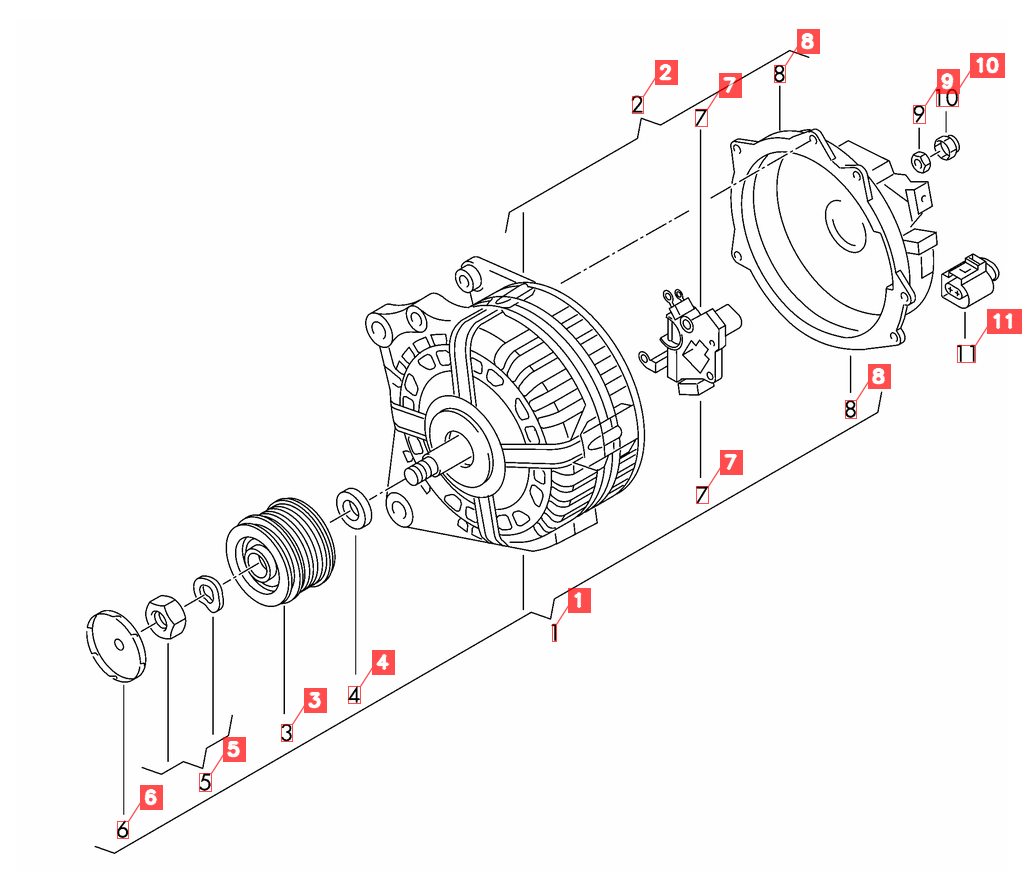
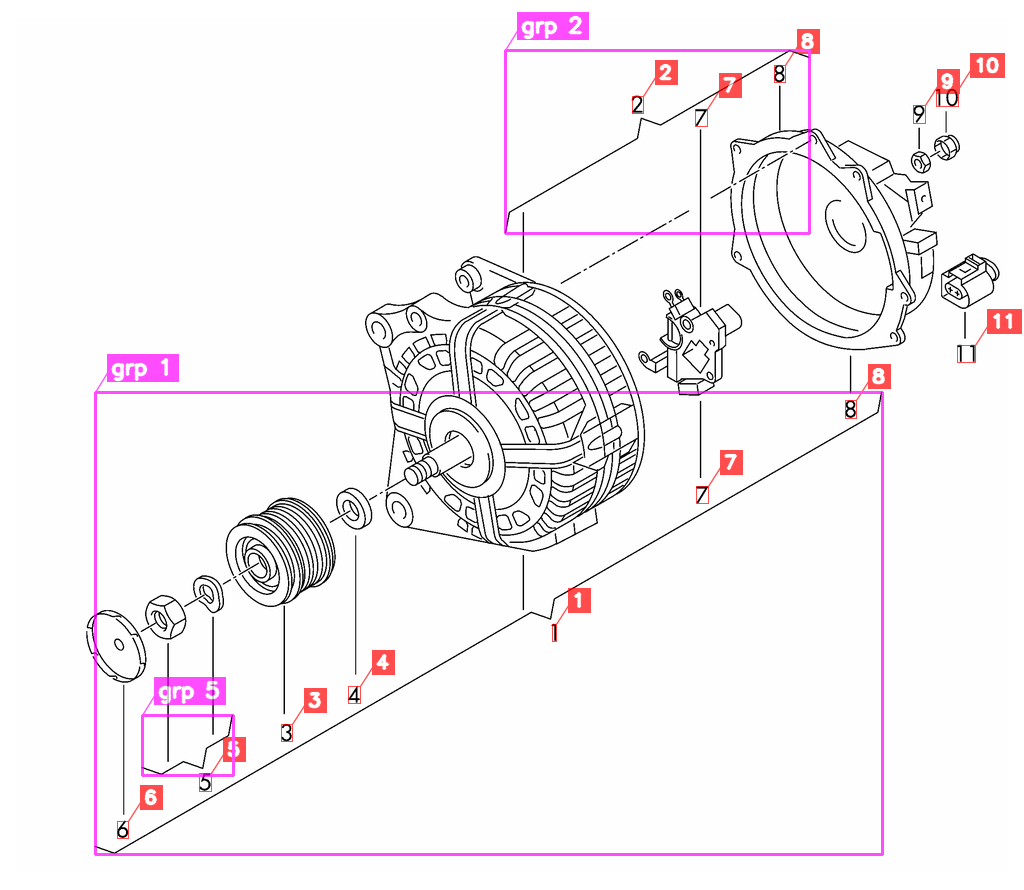
feat: auto-number diagonal grouping braces
Diagonal open-line braces were detected but never bound to a group
(ADR 0002 future work), so sample.png reported 0 of its 3 real groups.
New associate_open() binds them via measured prong geometry, uniform in
DIGIT HEIGHTS across catalogs (image-dim fractions broke at scale: a
0.03*dim member band swallowed the id on large diagrams):

- spine = PCA principal axis of the brace component (exact-bbox matched
  in the full-image labeling; 'largest CC in box' grabbed part contours)
- prong tip = deepest sharp vertex in the central 80% of the span
  (stroke end-caps masquerade as deep vertices)
- id: nearest callout to the tip on the prong side, within 1.3x its own
  height (true braces measured 0.7-1.0, false bindings 1.5-4.8)
- members: callouts hugging the spine on the opposite side (<=4.5h;
  true 0.6-1.6, unrelated 8+); may be empty -- some braces group parts
  with no callout digits of their own (sample grp 5)

Also fixes group_numbers' y-bin presort: same-row digits straddling a
20px bin boundary were visited out of x order and never merged ('14'
read as '1'+'4' on 710422200); sort by x only. Dataset-wide this fused
a dozen split reads (14, 16, 12A, 1A, 18, 10...).

Results: sample.png 0 -> 3 groups (ids 2, 1, 5); ~16 true diagonal
groups bound across the 100-image set, 2 accepted false (eyeballed,
documented in ADR); eval holds precision/recall 100%; 40 tests.

diff --git a/src/braces.py b/src/braces.py
@@ -46,6 +46,16 @@ OPEN_MUTUAL_IOU = 0.35     # candidates whose bboxes overlap this much are
 GROUP_MIDBAND = 0.30       # group-id near brace tip (fraction of span length)
 MEMBER_REACH = 0.13        # member row/column distance (fraction of perp image dim)
 GROUP_REACH = 0.10         # group-id distance from spine (fraction of perp image dim)
+# diagonal-brace association tolerances, in units of DIGIT HEIGHT -- the only
+# scale that holds across catalogs (image-dim fractions break: a 0.03*2300px
+# member band swallows the id on large diagrams). Measured on every true brace
+# (5 images, 12 braces): id sits 0.7-1.0 digit-heights from the prong tip
+# (false bindings: 1.5-4.8), members hug the spine at 0.6-1.6 on the opposite
+# side from the id (unrelated callouts: 8+).
+OPEN_ID_REACH = 1.3        # max dist(prong tip, id centre) / id height
+OPEN_MEMBER_REACH = 4.5    # max |spine offset| / median digit height for members
+OPEN_MEMBER_SIDE = 1.0     # members may poke at most this far onto the id side
+OPEN_SPAN_PAD = 10         # px slack at the spine's ends for the span test
 
 
 def detect_braces(gray, binv=None):
@@ -146,6 +156,112 @@ def detect_open_braces(gray, binv=None, exclude=()):
            if not any(c is not b and iou(_xyxy(b), _xyxy(c)) >= OPEN_MUTUAL_IOU
                       for c in cand)]
     return out
+
+
+def _sharp_vertices(mask):
+    """approxPolyDP vertices with a sharp direction change (same parameters as
+    _sharp_corners), as float (x, y) points in mask coordinates."""
+    cnts, _ = cv2.findContours(mask, cv2.RETR_EXTERNAL, cv2.CHAIN_APPROX_SIMPLE)
+    pts = cv2.approxPolyDP(max(cnts, key=cv2.contourArea), 4, False)[:, 0, :]
+    pts = pts.astype(np.float64)
+    out = []
+    for i in range(1, len(pts) - 1):
+        v1, v2 = pts[i - 1] - pts[i], pts[i + 1] - pts[i]
+        n1, n2 = np.linalg.norm(v1), np.linalg.norm(v2)
+        if n1 < 8 or n2 < 8:
+            continue
+        ang = np.degrees(np.arccos(np.clip(v1 @ v2 / (n1 * n2), -1, 1)))
+        if ang < 140:
+            out.append(pts[i])
+    return out
+
+
+def associate_open(open_braces, dets, binv, image_width, image_height):
+    """Bind diagonal open-line braces to a group id + members.
+
+    Measured geometry (sample.png + 4 catalog images, 12 true braces): the
+    brace is a long diagonal SPINE spanning the grouped parts, with a short
+    PRONG off the spine pointing at the group id; the id sits within ~1 digit
+    height of the prong tip, member callouts hug the spine within its span on
+    the opposite side. Axis-agnostic via PCA: the spine is the component's
+    principal axis, sides are perpendicular projections. All tolerances are in
+    digit heights -- the only scale stable across catalogs.
+
+    Returns groups in associate()'s format. The id is required; members may be
+    empty -- some braces group parts that carry no callout digits of their own
+    (sample grp 5: washers/nuts identified only by the group id). A brace with
+    no id near its prong tip stays unbound (JSON `open_braces` only).
+    """
+    # one labeling of the full image; each brace box IS a component's bbox
+    # (detect_open_braces emits one box per component), so match it exactly --
+    # picking "the largest component inside the box" can grab a part contour
+    # that merely overlaps a big brace's bbox.
+    n, labels, stats, _ = cv2.connectedComponentsWithStats(binv, connectivity=8)
+    by_bbox = {tuple(int(v) for v in stats[i][:4]): i for i in range(1, n)}
+
+    groups = []
+    for (bx, by, bw, bh) in open_braces:
+        idx = by_bbox.get((bx, by, bw, bh))
+        if idx is None:
+            continue
+        ys, xs = np.nonzero(labels[by:by + bh, bx:bx + bw] == idx)
+        pts = np.column_stack([xs, ys]).astype(np.float64)
+        c = pts.mean(0)
+        _, _, vt = np.linalg.svd(pts - c, full_matrices=False)
+        u, v = vt[0], vt[1]                      # spine axis, perpendicular
+        proj = (pts - c) @ u
+        s0, s1 = proj.min() - OPEN_SPAN_PAD, proj.max() + OPEN_SPAN_PAD
+
+        # prong tip: deepest sharp vertex off the spine, ends excluded -- the
+        # caps of a thick stroke read as sharp vertices with a big excursion
+        # (the documented PCA-endpoint trap), so only the central 80% of the
+        # span may vote.
+        lo, hi = s0 + 0.1 * (s1 - s0), s1 - 0.1 * (s1 - s0)
+        sharp = [p for p in _sharp_vertices((labels[by:by + bh, bx:bx + bw] == idx).astype("uint8"))
+                 if lo <= (p - c) @ u <= hi]
+        if not sharp:
+            continue
+        tip = max(sharp, key=lambda p: abs((p - c) @ v))
+        tip_side = 1.0 if (tip - c) @ v > 0 else -1.0
+        tip_g = np.array([bx, by], float) + tip
+        origin = np.array([bx, by], float) + c
+
+        heights = sorted(d["bbox"][3] - d["bbox"][1] for d in dets)
+        med_h = heights[len(heights) // 2] if heights else 0
+        if not med_h:
+            continue
+
+        # the id: nearest callout to the prong tip, on the prong side, within
+        # OPEN_ID_REACH of ITS OWN height (scale-free across catalogs)
+        group, best = None, None
+        in_span = []
+        for d in dets:
+            ctr = np.array([_cx(d), _cy(d)]) - origin
+            along, off = ctr @ u, ctr @ v
+            if not (s0 <= along <= s1):
+                continue
+            in_span.append((d, off))
+            if off * tip_side > 0:
+                dist = np.linalg.norm(np.array([_cx(d), _cy(d)]) - tip_g)
+                if dist <= OPEN_ID_REACH * (d["bbox"][3] - d["bbox"][1]) \
+                        and (best is None or dist < best):
+                    group, best = d, dist
+        if group is None:
+            continue
+
+        # members hug the spine on the opposite side from the id (may poke
+        # slightly onto the id side); may be empty -- see docstring
+        members = [d for (d, off) in in_span
+                   if d is not group
+                   and abs(off) <= OPEN_MEMBER_REACH * med_h
+                   and off * tip_side <= OPEN_MEMBER_SIDE * med_h]
+        groups.append({
+            "group": group["text"],
+            "group_bbox": group["bbox"],
+            "brace_bbox": [bx, by, bx + bw, by + bh],
+            "members": [{"text": d["text"], "bbox": d["bbox"]} for d in members],
+        })
+    return groups
 
 
 def _cx(b):

diff --git a/tests/test_logic.py b/tests/test_logic.py
@@ -2,7 +2,7 @@
 import numpy as np
 import cv2
 
-from src.braces import associate, detect_open_braces
+from src.braces import associate, associate_open, detect_open_braces
 from src.glyphs import glyph_candidates, group_numbers, iou, nms
 from src.pipeline import valid_callout
 
@@ -185,6 +185,81 @@ def test_open_brace_finds_three_on_sample():
     assert len(detect_open_braces(g)) == 3
 
 
+def _pronged_scene():
+    """A diagonal spine with a prong tick at its middle, on a 400x400 canvas.
+
+    Geometry mirrors the measured sample.png braces: members hug the spine
+    (offset ~5px), the id sits past the prong tip (offset ~35px, beyond the
+    member band).
+    """
+    g = np.full((400, 400), 255, np.uint8)
+    cv2.line(g, (40, 200), (360, 120), 0, 2)     # spine
+    cv2.line(g, (200, 160), (205, 185), 0, 2)    # prong toward the id
+    from src.glyphs import binarize_inv
+    binv = binarize_inv(g)
+    # the box must be the component's exact bbox, as detect_open_braces emits
+    n, _, stats, _ = cv2.connectedComponentsWithStats(binv, connectivity=8)
+    i = max(range(1, n), key=lambda k: stats[k][4])
+    box = tuple(int(v) for v in stats[i][:4])
+    return binv, box
+
+
+def test_associate_open_binds_id_and_members():
+    binv, box = _pronged_scene()
+    dets = [_det("5", 211, 191),     # id: within ~1 digit height of the prong tip
+            _det("3", 120, 185),     # member: hugs the spine
+            _det("4", 280, 142),     # member: hugs the spine
+            _det("9", 60, 350)]      # far away: ignored
+    groups = associate_open([box], dets, binv, 400, 400)
+    assert len(groups) == 1
+    g = groups[0]
+    assert g["group"] == "5"
+    assert sorted(m["text"] for m in g["members"]) == ["3", "4"]
+
+
+def test_associate_open_unbound_without_id():
+    # no callout near the prong tip -> no group (stays JSON-only)
+    binv, box = _pronged_scene()
+    dets = [_det("3", 120, 185), _det("4", 280, 142)]
+    assert associate_open([box], dets, binv, 400, 400) == []
+
+
+def test_associate_open_binds_id_only():
+    # id at the prong but no callouts on the spine: still a group -- some
+    # braces group parts that carry no callout digits (sample grp 5).
+    binv, box = _pronged_scene()
+    dets = [_det("5", 211, 191), _det("9", 60, 350)]
+    groups = associate_open([box], dets, binv, 400, 400)
+    assert len(groups) == 1
+    assert groups[0]["group"] == "5"
+    assert groups[0]["members"] == []
+
+
+def test_associate_open_binds_sample_braces():
+    # regression: sample.png has 3 diagonal-brace groups (ids 2, 1, 5).
+    # grp 2 -> members 7,8; grp 1 -> 3,4 (+ nested 5,6 -- known double-count);
+    # grp 5 binds id-only (its washers/nuts carry no callout digits).
+    from src.config import DATA_DIR
+    p = DATA_DIR / "sample.png"
+    if not p.exists():
+        import pytest
+        pytest.skip("sample.png not present")
+    import json
+    from src.glyphs import binarize_inv
+    from src.braces import detect_braces, detect_open_braces
+    g = cv2.imread(str(p), cv2.IMREAD_GRAYSCALE)
+    binv = binarize_inv(g)
+    result = json.loads((DATA_DIR / "out" / "sample.json").read_text())
+    dets = result["detections"]
+    ob = detect_open_braces(g, binv, exclude=detect_braces(g, binv))
+    groups = associate_open(ob, dets, binv, g.shape[1], g.shape[0])
+    by_id = {grp["group"]: sorted(m["text"] for m in grp["members"])
+             for grp in groups}
+    assert "2" in by_id and by_id["2"] == ["7", "8"]
+    assert "1" in by_id and {"3", "4"} <= set(by_id["1"])
+    assert "5" in by_id    # id-only: bound with no members
+
+
 def test_associate_skips_brace_with_no_members():
     braces = [(100, 100, 20, 300)]
     dets = [_det("15", 60, 250)]  # only an outer callout, no inner members
@@ -205,6 +280,17 @@ def test_group_merges_adjacent_same_row():
     assert len(groups) == 1
     x, y, w, h = groups[0]
     assert x == 100 and w == 45
+
+
+def test_group_merges_across_y_bin_boundary():
+    # regression (710422200 "14"): two same-row glyphs whose y values fall in
+    # different 20px sort bins (2239 vs 2240) were visited out of x order, and
+    # the right glyph can't merge leftward -> "14" split into "1" + "4".
+    boxes = [(1331, 2240, 10, 37), (1354, 2239, 26, 38)]
+    groups = group_numbers(boxes)
+    assert len(groups) == 1
+    x, y, w, h = groups[0]
+    assert x == 1331 and x + w == 1380
 
 
 def test_group_keeps_distant_apart():

diff --git a/src/detect.py b/src/detect.py
@@ -15,7 +15,8 @@ from pathlib import Path
 
 import cv2
 
-from src.braces import associate, detect_braces, detect_open_braces
+from src.braces import (associate, associate_open, detect_braces,
+                        detect_open_braces)
 from src.glyphs import binarize_inv
 from src.config import IMAGES_DIR, OUT_DIR
 from src.pipeline import detect, draw_overlay
@@ -37,6 +38,8 @@ def process(path, write_overlay=True):
     braces = detect_braces(gray, binv)
     groups = associate(braces, dets, gray.shape[1], gray.shape[0])
     open_braces = detect_open_braces(gray, binv, exclude=braces)
+    groups += associate_open(open_braces, dets, binv,
+                             gray.shape[1], gray.shape[0])
 
     OUT_DIR.mkdir(parents=True, exist_ok=True)
     (OUT_DIR / f"{path.stem}.json").write_text(json.dumps(

diff --git a/src/glyphs.py b/src/glyphs.py
@@ -54,7 +54,10 @@ def glyph_candidates(binv):
 
 def group_numbers(boxes):
     """Merge horizontally-adjacent glyphs of similar height into number boxes."""
-    boxes = sorted(boxes, key=lambda b: (b[1] // 20, b[0]))
+    # sort by x only: merging proceeds rightward, so the leftmost glyph of a
+    # number must be visited first. (A y-bin presort split same-row digits
+    # whose y values straddled a bin boundary -- "14" became "1" + "4".)
+    boxes = sorted(boxes, key=lambda b: b[0])
     used = [False] * len(boxes)
     groups = []
     for i, b in enumerate(boxes):

diff --git a/README.md b/README.md
@@ -25,11 +25,11 @@ don't need OCR; this fills the gap for the raster ones.
 | ![input](assets/example-input.png) | ![output](assets/example-overlay.png) |
 
 *Each detected callout number is pulled out as a red leader-linked label.
-Grouping braces bound to their member callouts are highlighted in magenta with
-the group id. All marks are semi-transparent so the underlying drawing stays
-readable. (Braces drawn as diagonal lines are also detected — kept in the JSON
-and shown on demand in the interactive viewer, but left off the static overlay:
-they are too noisy to draw unconditionally, see `docs/adr/0002`.)*
+Grouping braces bound to a group id — axis-aligned `{` braces and diagonal
+bracket lines alike — are highlighted in magenta with the id. All marks are
+semi-transparent so the underlying drawing stays readable. (Detected braces
+that can't be bound to an id stay off the static overlay — kept in the JSON
+and shown on demand in the interactive viewer, see `docs/adr/0002`.)*
 
 ## How it works
 
@@ -43,9 +43,10 @@ words, not isolated digits), so detection is done with classic CV and only the
 2. **Gate** by whitespace isolation: real callouts sit in the margin, drawing
    features sit in ink.
 3. **Recognize** every candidate in one batched EasyOCR call (`0-9` + `A/B` suffix).
-4. **Group** detected `{` braces (vertical and horizontal), binding each to its
-   group-id + member callouts. Braces drawn as diagonal lines are also detected
-   (as open polylines) and highlighted, though not yet auto-numbered.
+4. **Group** detected braces, binding each to its group-id + member callouts.
+   Axis-aligned `{` braces associate by row/column adjacency; braces drawn as
+   diagonal lines (open polylines) associate by prong geometry — the id sits
+   within ~1 digit height of the prong tip, members hug the spine.
 
 See [`docs/adr/`](docs/adr) for the decisions behind this (engine choice, grouping).
 
@@ -112,8 +113,9 @@ pip install pytest && python -m pytest tests -q
 - Interior drawing features occasionally misread as a digit.
 - Nested braces double-count: a sub-group's members also list under the outer group.
 - Only `A`/`B` callout suffixes; the letter is sometimes lost when faint (`4A` → `4`).
-- Diagonal grouping braces are detected and highlighted but not yet auto-numbered
-  (the prong that points at the group id is too noisy to read reliably).
+- Diagonal-brace grouping is geometric: a rare part contour with a stray callout
+  near a corner can bind as a false group (2 such on the 100-image set, see
+  `docs/adr/0002`).
 
 The original 2018 Python 2.7 template-matching + KNN prototype is kept under
 [`legacy/`](legacy) for reference.

diff --git a/docs/adr/0002-brace-grouping.md b/docs/adr/0002-brace-grouping.md
@@ -96,6 +96,31 @@ real progress now needs brace ground truth, not heuristics.
 remain in the JSON (`open_braces`) and in the interactive viewer, which shows
 them on demand (hover / showall) rather than permanently.
 
+## Update (diagonal braces auto-numbered — `associate_open`)
+The Phase 3b blockers fell: the narrow "1" reads as a callout (ADR 0001), and
+the prong machinery (sharp corners) locates the id notch. Measured on every
+true diagonal brace (5 images, 12 braces), the geometry is uniform **in digit
+heights** — the only scale stable across catalogs (image-dim fractions broke:
+a 0.03×dim member band swallowed the id on large diagrams):
+
+- id sits 0.7–1.0 digit-heights from the prong tip (false bindings: 1.5–4.8);
+  gate `OPEN_ID_REACH = 1.3`;
+- members hug the spine at 0.6–1.6 on the opposite side from the id
+  (unrelated callouts: 8+); gate `OPEN_MEMBER_REACH = 4.5`;
+- the prong tip is the deepest sharp vertex in the **central 80 % of the
+  span** — stroke end-caps masquerade as deep vertices (the PCA-endpoint trap
+  Phase 3b documented);
+- the brace's component is matched by **exact bbox** in the full-image
+  labeling — "largest component in the box" grabbed part contours overlapping
+  big braces' bboxes.
+
+Members may be empty: some braces group parts that carry no callout digits of
+their own (sample grp 5 — washers/nuts identified only by the group id), so an
+id alone binds. Accepted cost, eyeballed across all 100 images: 2 false groups
+(645845000 — a door-glass contour with a stray "6" near a corner; 258133860 —
+a hose-clamp fragment with "2" adjacent), against ~16 true diagonal groups
+bound. sample.png reports all 3 of its groups.
+
 ## Known limitations / future work
 - Nested braces double-count: a sub-group's members also appear in the enclosing
   group (194500200: 12A in both grp 6 and grp 21).
